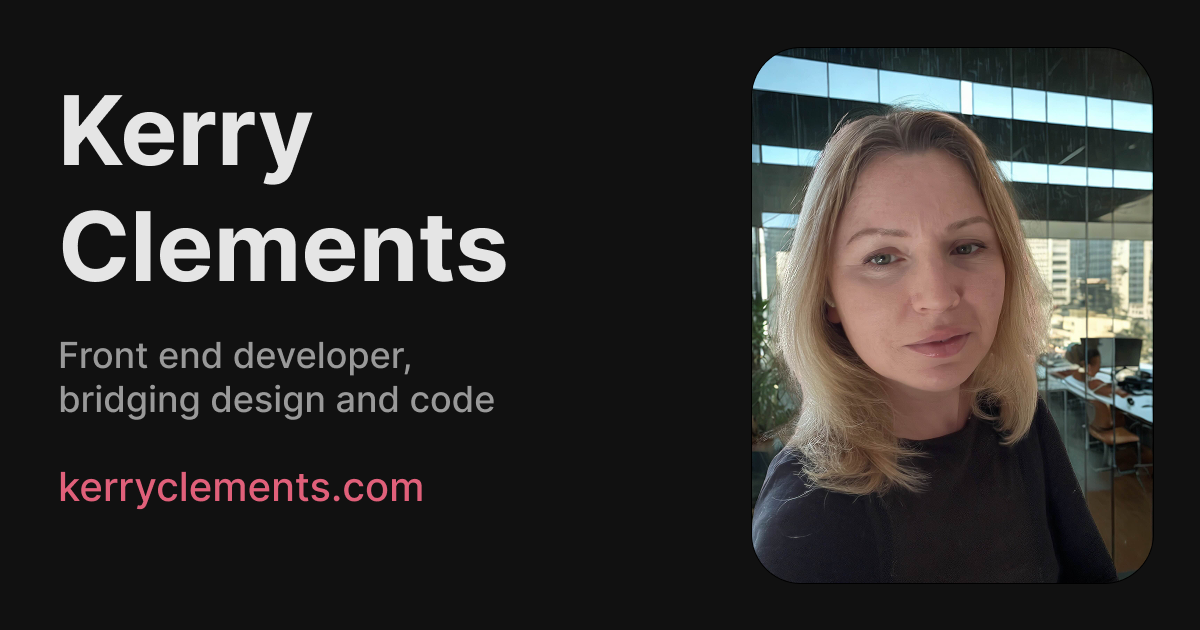
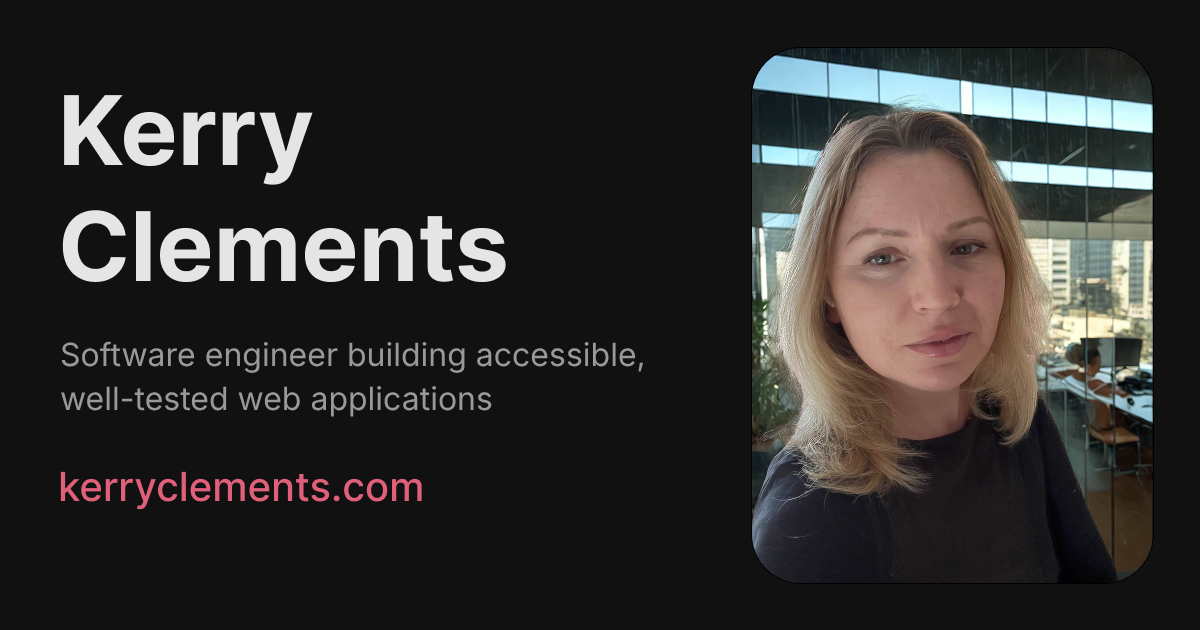
feat: update preview card tagline to software engineer positioning
Claude-Session: https://claude.ai/code/session_01RD1RR2iumlmjkfnelwpknw

Changed region(s): [[0.0308, 0.5429, 0.5242, 0.6635]]

diff --git a/index.html b/index.html
@@ -25,12 +25,12 @@
       })()
     </script>
     <meta property="og:type" content="website" />
-    <meta property="og:image" content="https://kerryclements.com/og-image.png?v=2" />
+    <meta property="og:image" content="https://kerryclements.com/og-image.png?v=3" />
     <meta property="og:image:width" content="1200" />
     <meta property="og:image:height" content="630" />
     <meta
       property="og:image:alt"
-      content="Kerry Clements, front end developer bridging design and code, with a photo of Kerry"
+      content="Kerry Clements, software engineer building accessible, well-tested web applications, with a photo of Kerry"
     />
     <meta name="twitter:card" content="summary_large_image" />
   </head>
